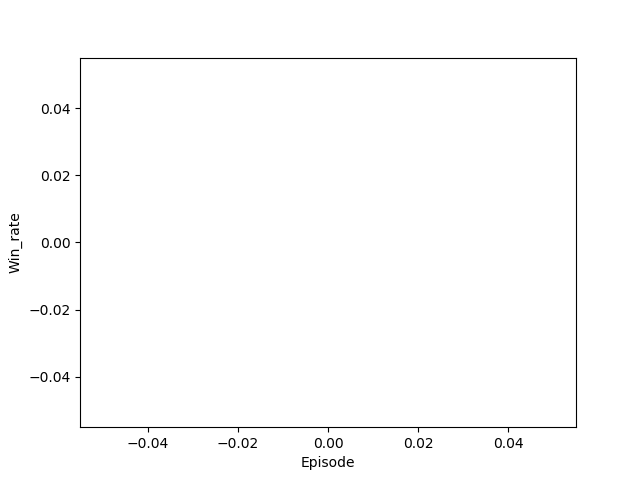
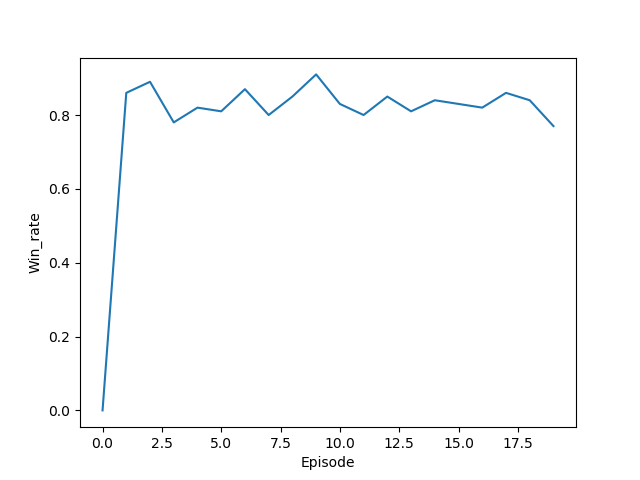
结果增加了一些探索，不然会一直死循环，无法执行

diff --git a/2 Missile_fight/D3QN.py b/2 Missile_fight/D3QN.py
@@ -183,7 +183,7 @@ class DQN:
                                self.epsilon_end)
             self.learn_step_counter += 1
         else:
-            self.epsilon = 0
+            self.epsilon = 0.01
 
     def model_save(self):
         self.actor_saver.save(self.sess, self.model_path)
